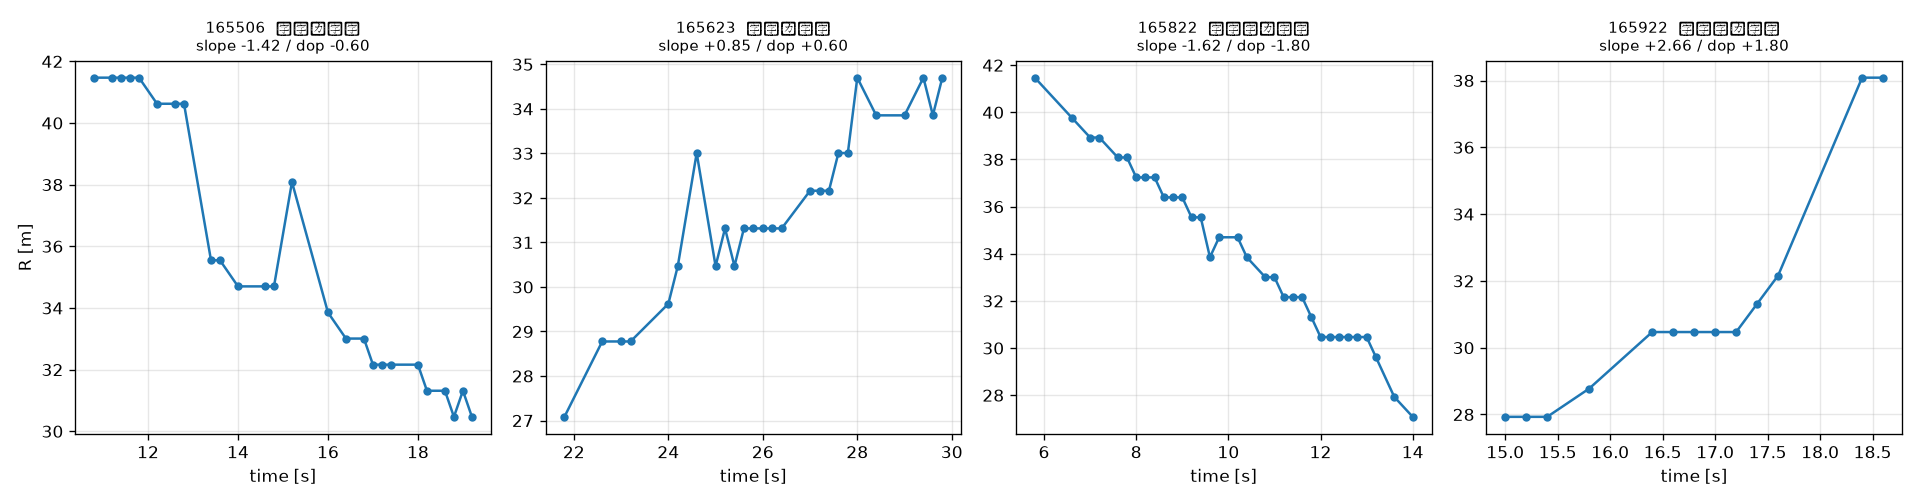
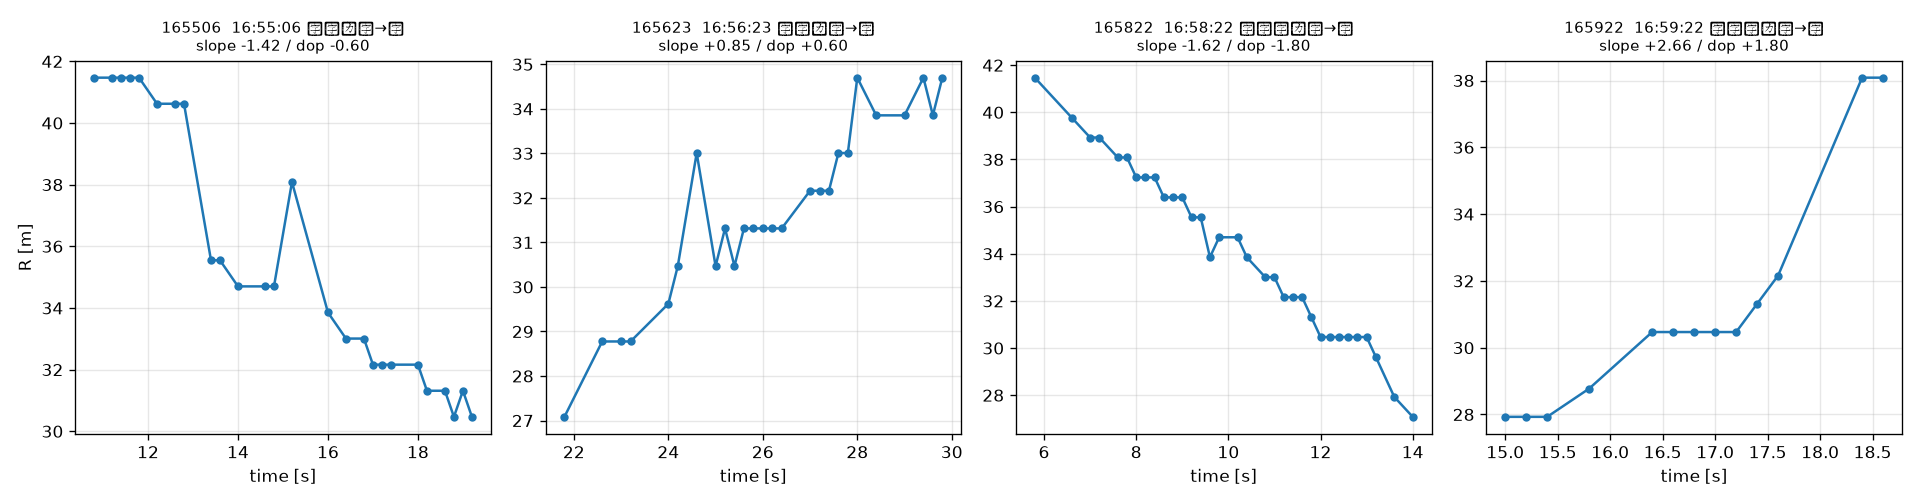
1001: シナリオを時刻つきで具体化
ファイル名末尾6桁が HHMMSS であることを明示し、
徒歩で1往復→自転車で1往復という流れが分かる形に。
観測したレンジ変化率の符号が申告した向きと4本とも一致することも記載。

diff --git a/400MHz変更用/1001/analyze_1001.py b/400MHz変更用/1001/analyze_1001.py
@@ -26,11 +26,14 @@ sys.path.insert(0, str(ROOT.parent / "0928"))
 from atlas_ridge_track import build_ridges, moving_power_db   # noqa: E402
 
 # 収録順と走行条件。被験者の申告による
-RUNS = {                          # 収録順と走行条件（被験者の申告）。図の軸は ASCII にする
-    "165506": ("歩行・接近", "walk approach"),
-    "165623": ("歩行・離反", "walk recede"),
-    "165822": ("自転車・接近", "bike approach"),
-    "165922": ("自転車・離反", "bike recede"),
+# ファイル名末尾6桁は収録開始時刻 HHMMSS。16:55:06 から約4分で4本。
+# 徒歩で1往復（遠→近, 近→遠）してから自転車に乗り換え、同じ道をもう1往復した。
+# いずれも道の中央を通行しており、走行ラインを分けた収録ではない。図の軸は ASCII にする
+RUNS = {
+    "165506": ("16:55:06 徒歩・遠→近", "16:55:06 walk, far->near"),
+    "165623": ("16:56:23 徒歩・近→遠", "16:56:23 walk, near->far"),
+    "165822": ("16:58:22 自転車・遠→近", "16:58:22 bike, far->near"),
+    "165922": ("16:59:22 自転車・近→遠", "16:59:22 bike, near->far"),
 }
 RMIN, RMAX = 25.0, 55.0      # 近傍（窓枠・三脚）と遠方を外す
 NOISE_R = 60.0               # ここより遠方を雑音床の参照にする
@@ -114,7 +117,7 @@ def main():
     g = tracks[tag]
     d_grid = np.arange(5.0, g["rng"].min(), 2.5)
     prof = profile_d(g["rng"], g["t"], d_grid)
-    print(f"\n当てはめの d 依存（{tag} {RUNS[tag]}、n={len(g['f'])}、観測の最小 R={g['rng'].min():.1f} m）")
+    print(f"\n当てはめの d 依存（{tag} {RUNS[tag][0]}、n={len(g['f'])}、観測の最小 R={g['rng'].min():.1f} m）")
     print(f"{'d[m]':>6} {'v[m/s]':>8} {'rms[m]':>8}")
     for d, v, rms in prof:
         print(f"{d:6.1f} {v:8.2f} {rms:8.3f}")

diff --git a/400MHz変更用/1001/README.md b/400MHz変更用/1001/README.md
@@ -22,17 +22,33 @@
 
 ---
 
-## 1. 収録したもの
+## 1. 収録したシナリオ
 
-| ファイル | 条件 | フレーム | 収録長 |
-|---|---|---|---|
-| `atlas_log_20261001_165506` | 歩行・接近 | 150 | 30 s |
-| `atlas_log_20261001_165623` | 歩行・離反 | 150 | 30 s |
-| `atlas_log_20261001_165822` | 自転車・接近 | 150 | 30 s |
-| `atlas_log_20261001_165922` | 自転車・離反 | 150 | 30 s |
+ファイル名の `atlas_log_YYYYMMDD_HHMMSS` は収録開始時刻で、末尾6桁が **時・分・秒**。
+16:55:06 から 16:59:22 までの約4分間に、道の中央を1往復ずつ、計4本を収録した。
 
-いずれも道の中央を通行。**他の歩行者・自転車が写り込んでいる**ため、尾根は複数本出る。
-無人背景は未収録。幾何（$y_r, h$）とカメラ位置は未確定なので、$d$ の絶対値は意味を持たない。
+| 時刻 | ファイル | 被験者 | 向き | 想定される $R$ の変化 |
+|---|---|---|---|---|
+| **16:55:06** | `..._165506` | 徒歩 | 遠く → 近く（接近） | 減少 |
+| **16:56:23** | `..._165623` | 徒歩 | 近く → 遠く（離反） | 増加 |
+| **16:58:22** | `..._165822` | 自転車 | 遠く → 近く（接近） | 減少 |
+| **16:59:22** | `..._165922` | 自転車 | 近く → 遠く（離反） | 増加 |
+
+徒歩で1往復してから自転車に乗り換え、同じ道をもう1往復した形。
+いずれも**道の中央**を通行しており、走行ラインを分けた収録ではない。
+1試行 ＝ 1ファイル ＝ 30 秒（150 フレーム）で、4本とも欠損なし。
+
+### 観測はシナリオと一致している
+
+レンジ変化率 d$R$/d$t$ の符号が、申告された向きと4本すべてで一致した（§2 の表）。
+接近の2本は負、離反の2本は正。被験者の申告と尾根追跡の結果が独立に合っているので、
+**取り出した尾根が本人であること**と**ファイルの対応づけが正しいこと**が同時に確認できる。
+
+### この収録の性格
+
+- 幾何（$y_r, h$）とカメラ位置は未確定。したがって $d$ の絶対値は意味を持たない
+- **他の歩行者・自転車が写り込んでいる**ため、尾根は複数本出る
+- 無人背景は未収録
 
 データは `data/raw/`（git 管理外）、`atlas_export.py` の出力は `data/export/`。
 
@@ -40,12 +56,12 @@
 
 近傍ゲート 25〜55 m、しきい値 22 dB。雑音床はいずれも 13.5 dB。
 
-| ファイル | 条件 | 点数 | 時間 [s] | $R$ [m] | d$R$/d$t$ | ドップラー | 強度 [dB] |
+| 時刻 | 条件 | 点数 | 目標が写っていた区間 [s] | $R$ [m] | d$R$/d$t$ | ドップラー | 強度 [dB] |
 |---|---|---|---|---|---|---|---|
-| 165506 | 歩行・接近 | 26 | 10.8–19.2 | 41.5 → 30.5 | $-1.42$ | $-0.60$ | 28.4 |
-| 165623 | 歩行・離反 | 26 | 21.8–29.8 | 27.1 → 34.7 | $+0.85$ | $+0.60$ | 28.0 |
-| 165822 | 自転車・接近 | **33** | 5.8–14.0 | 41.5 → 27.1 | $-1.62$ | $-1.80$ | **31.4** |
-| 165922 | 自転車・離反 | 13 | 15.0–18.6 | 27.9 → 38.1 | $+2.66$ | $+1.80$ | 25.1 |
+| 16:55:06 | 徒歩・遠→近 | 26 | 10.8–19.2 | 41.5 → 30.5 | $-1.42$ | $-0.60$ | 28.4 |
+| 16:56:23 | 徒歩・近→遠 | 26 | 21.8–29.8 | 27.1 → 34.7 | $+0.85$ | $+0.60$ | 28.0 |
+| 16:58:22 | 自転車・遠→近 | **33** | 5.8–14.0 | 41.5 → 27.1 | $-1.62$ | $-1.80$ | **31.4** |
+| 16:59:22 | 自転車・近→遠 | 13 | 15.0–18.6 | 27.9 → 38.1 | $+2.66$ | $+1.80$ | 25.1 |
 
 レンジ変化率とドップラーは別々の物理量から出るので、**一致していれば実在の移動目標**と言える。
 4本とも符号と桁が一致しており、取り出した尾根は本物。
@@ -55,14 +71,16 @@
 ### 読み取れること
 
 - 目標は $R = 27\sim42$ m に現れる。**事前の想定（16〜28 m）より遠い**
-- 30 s のうち目標が写っているのは 4〜8 秒のみ。走行区間を伸ばす余地が大きい
+- 30 s のうち目標が写っているのは 4〜8 秒のみ。収録の大半が空で、走行区間を伸ばす余地が大きい
+  （徒歩は 10.8 s / 21.8 s から、自転車は 5.8 s / 15.0 s から写り始めており、歩き出しの
+  タイミングもまちまち。夜は合図を決めて収録の頭から走り出したい）
 - $R \approx 18$ m と $R \approx 34$ m に全時刻にわたる持続クラッタの帯がある。MTI の残差で、
   傾きが 0 なので尾根選別で弾けるが、34 m の帯は目標の通り道と重なり軌跡を分断する
 - 近傍 0〜8 m は窓枠・三脚・操作者。`--rmin` で外す
 
 ## 3. $d$ が決まらないことの定量化
 
-最も点数の多い 165822（自転車・接近、n=33、観測の最小 $R$ = 27.1 m）で、$d$ を固定して
+最も点数の多い 16:58:22（自転車・遠→近、n=33、観測の最小 $R$ = 27.1 m）で、$d$ を固定して
 残りのパラメータ $(v, t_\text{min})$ を最適化し、残差の $d$ 依存を調べた。
 
 | $d$ [m] | 最適 $v$ [m/s] | rms [m] |
